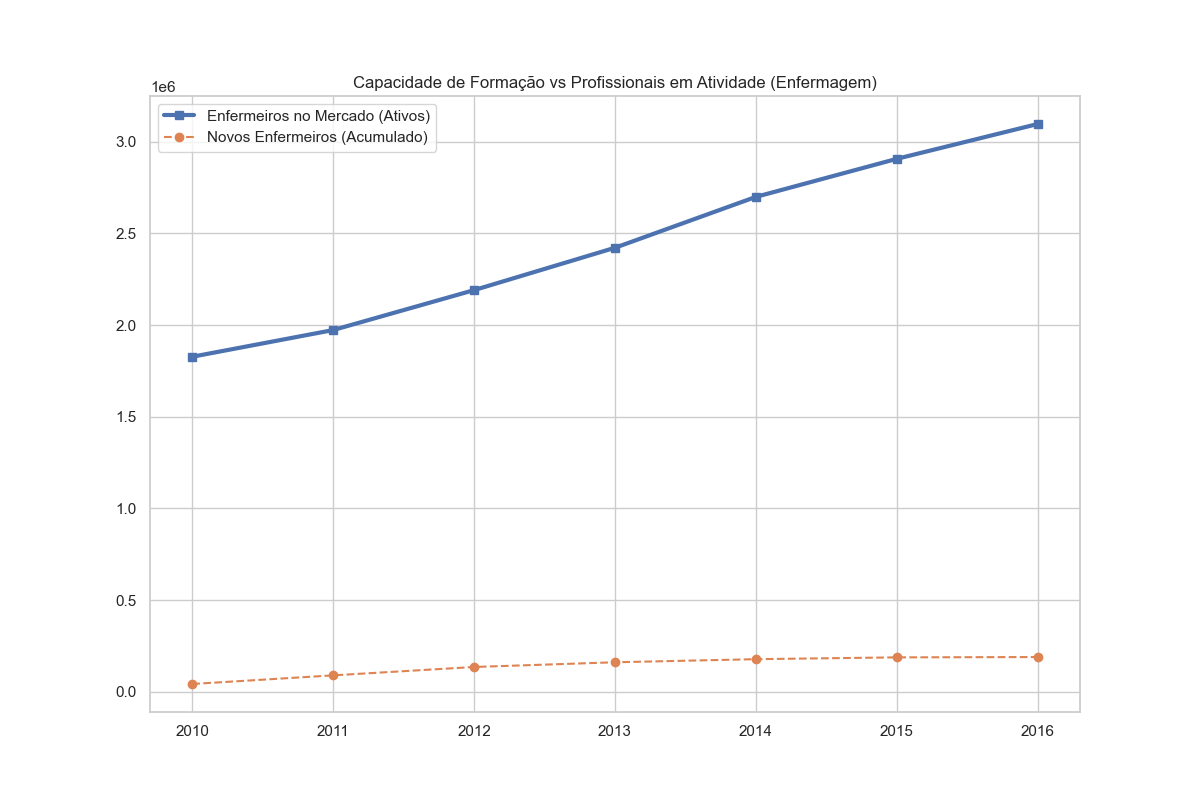
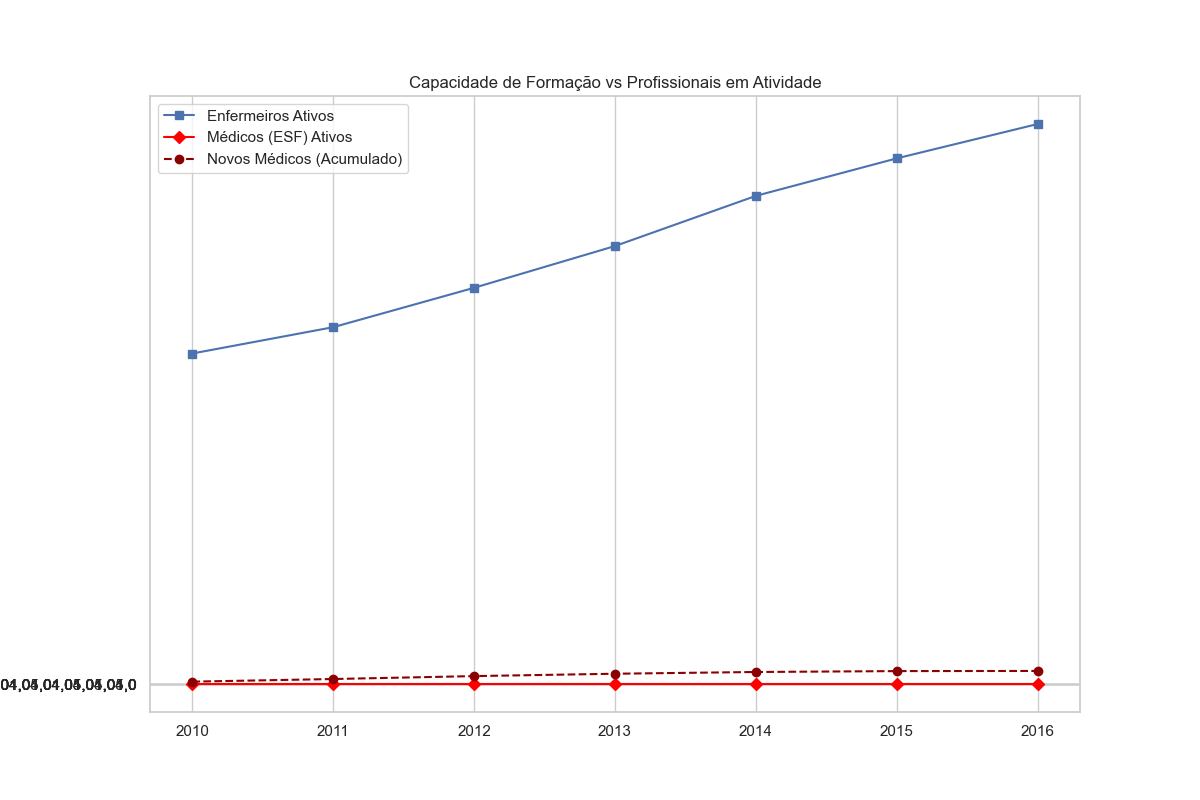
feat: inclusão de médicos (ESF) na análise e correção de cache das imagens web

diff --git a/web/client/src/pages/Home.tsx b/web/client/src/pages/Home.tsx
@@ -15,10 +15,10 @@ import { TabGeografico } from "@/components/dashboard/TabGeografico";
 import { TabMercado } from "@/components/dashboard/TabMercado";
 
 const STATIC_TABS = [
-  { value: "basica", label: "Básica", imgs: ["01_profissionais_por_regiao.png", "02_evolucao_temporal.png", "03_top_ufs.png", "04_distribuicao_boxplot.png"] },
-  { value: "distrib", label: "Distribuição", imgs: ["05_histogramas_distribuicao.png", "06_boxplots_outliers.png"] },
-  { value: "correl", label: "Correlação", imgs: ["07_matriz_correlacao.png", "08_scatter_plots_bivariado.png"] },
-  { value: "regional", label: "Regional", imgs: ["09_violinplot_por_regiao.png"] },
+  { value: "basica", label: "Básica", imgs: ["01_profissionais_por_regiao_v2.png", "02_evolucao_temporal_v2.png", "03_top_ufs_v2.png", "04_distribuicao_boxplot_v2.png"] },
+  { value: "distribuicao", label: "Distribuição", imgs: ["05_histogramas_distribuicao_v2.png", "06_boxplots_outliers_v2.png"] },
+  { value: "correlacao", label: "Correlação", imgs: ["07_matriz_correlacao_v2.png", "08_scatter_plots_bivariado_v2.png"] },
+  { value: "regional", label: "Regional", imgs: ["09_violinplot_por_regiao_v2.png", "10_evolucao_temporal_detalhada_v2.png"] },
 ];
 
 export default function Home() {

diff --git a/analise/scripts/analise_integrada_simapes.py b/analise/scripts/analise_integrada_simapes.py
@@ -12,9 +12,19 @@ plt.rcParams['font.size'] = 12
 # Diretórios
 DADOS_DIR = 'analise/dados'
 RELATORIOS_DIR = 'analise/relatorios'
+WEB_PUBLIC_DIR = 'web/client/public'
 
-if not os.path.exists(RELATORIOS_DIR):
-    os.makedirs(RELATORIOS_DIR)
+for d in [RELATORIOS_DIR, WEB_PUBLIC_DIR]:
+    if not os.path.exists(d):
+        os.makedirs(d)
+
+def save_plot(filename, dpi=150):
+    # Adicionando sufixo para evitar cache do navegador
+    base, ext = os.path.splitext(filename)
+    filename_v = f"{base}_v2{ext}"
+    plt.savefig(f'{RELATORIOS_DIR}/{filename_v}', dpi=dpi)
+    plt.savefig(f'{WEB_PUBLIC_DIR}/{filename_v}', dpi=dpi)
+    print(f"[OK] Gráfico salvo: {filename_v}")
 
 def carregar_dados():
     print("Carregando bases de dados...")
@@ -23,7 +33,7 @@ def carregar_dados():
     geo = pd.read_csv(f'{DADOS_DIR}/panorama_geo.csv', sep=';', encoding='utf-8')
     
     # Otimização: Carregar apenas colunas necessárias de Saude e filtrar anos
-    cols_saude = ['ano_competencia', 'CODUFMUN', 'n_enfermeiros', 'n_odontologistas', 'n_fisioterapeutas']
+    cols_saude = ['ano_competencia', 'CODUFMUN', 'n_enfermeiros', 'n_odontologistas', 'n_fisioterapeutas', 'quantidade_esf']
     saude = pd.read_csv(f'{DADOS_DIR}/panorama_saude.csv', sep=';', usecols=cols_saude)
     saude = saude[saude['ano_competencia'].between(2010, 2016)]
     
@@ -35,7 +45,7 @@ def processar_integracao(aluno, curso, geo, saude):
     # Conversão Numérica
     for df in [aluno, curso, saude]:
         for col in df.columns:
-            if 'qt_' in col or 'n_' in col or 'vaga' in col or 'inscrito' in col:
+            if 'qt_' in col or 'n_' in col or 'vaga' in col or 'inscrito' in col or 'quantidade_' in col:
                 df[col] = pd.to_numeric(df[col].astype(str).str.replace(',', '.'), errors='coerce').fillna(0)
     
     # 1. Integração Geográfica
@@ -60,7 +70,8 @@ def processar_integracao(aluno, curso, geo, saude):
     saude_agrupada = saude.groupby(['ano_competencia', 'CODUFMUN']).agg({
         'n_enfermeiros': 'sum',
         'n_odontologistas': 'sum',
-        'n_fisioterapeutas': 'sum'
+        'n_fisioterapeutas': 'sum',
+        'quantidade_esf': 'sum'
     }).reset_index()
     
     # Adicionando Região à base Saúde
@@ -77,14 +88,14 @@ def gerar_graficos(aluno, curso, saude):
                 x='tp_ocde', y='qt_matricula_total', palette='viridis')
     plt.title('Total de Matrículas por Curso (2010-2016)')
     plt.ylabel('Nº de Matrículas')
-    plt.savefig(f'{RELATORIOS_DIR}/01_matriculas_por_curso.png')
+    save_plot('01_matriculas_por_curso.png')
     plt.close()
 
     # 02. Distribuição por Sexo e Curso (Foco em Medicina)
     plt.figure()
     sns.barplot(data=aluno, x='tp_ocde', y='qt_matricula_total', hue='sexo', estimator=sum, errorbar=None)
     plt.title('Distribuição de Matrículas por Sexo e Curso')
-    plt.savefig(f'{RELATORIOS_DIR}/02_sexo_por_curso.png')
+    save_plot('02_sexo_por_curso.png')
     plt.close()
 
     # 03. Diversidade Racial
@@ -92,7 +103,7 @@ def gerar_graficos(aluno, curso, saude):
     raca_data = aluno[~aluno['raca'].isin(['Sem Resposta', 'Aluno não quis declarar cor/raça'])]
     sns.countplot(data=raca_data, y='raca', order=raca_data['raca'].value_counts().index, palette='magma')
     plt.title('Distribuição Racial dos Alunos de Saúde')
-    plt.savefig(f'{RELATORIOS_DIR}/03_distribuicao_racial.png')
+    save_plot('03_distribuicao_racial.png')
     plt.close()
 
     # 04. Pública vs Privada: Eficiência de Formação
@@ -104,7 +115,7 @@ def gerar_graficos(aluno, curso, saude):
     eficiencia['taxa_conclusao'] = (eficiencia['qt_concluinte_total'] / eficiencia['qt_matricula_total']) * 100
     sns.barplot(data=eficiencia, x='tp_ocde', y='taxa_conclusao', hue='tipo_instituicao')
     plt.title('Taxa de Conclusão (%) por Tipo de Instituição')
-    plt.savefig(f'{RELATORIOS_DIR}/04_eficiencia_institucional.png')
+    save_plot('04_eficiencia_institucional.png')
     plt.close()
 
     # 05. Evolução Temporal da Concorrência (Vagas vs Inscritos)
@@ -112,26 +123,27 @@ def gerar_graficos(aluno, curso, saude):
     curso['concorrencia'] = curso['qt_inscrito_total'] / curso['qt_vaga_total']
     sns.lineplot(data=curso[curso['competencia'] >= 2010], x='competencia', y='concorrencia', hue='tp_ocde', marker='o')
     plt.title('Evolução da Concorrência (Candidato/Vaga)')
-    plt.savefig(f'{RELATORIOS_DIR}/05_evolucao_concorrencia.png')
+    save_plot('05_evolucao_concorrencia.png')
     plt.close()
 
     # 06. Formação vs Mercado (Integração Aluno + Saúde)
     plt.figure()
-    mercado = saude.groupby('ano_competencia')[['n_enfermeiros', 'n_odontologistas', 'n_fisioterapeutas']].sum().reset_index()
+    mercado = saude.groupby('ano_competencia')[['n_enfermeiros', 'n_odontologistas', 'n_fisioterapeutas', 'quantidade_esf']].sum().reset_index()
     formacao = aluno.groupby(['competencia', 'tp_ocde'])['qt_concluinte_total'].sum().unstack().reset_index()
     
-    plt.plot(mercado['ano_competencia'], mercado['n_enfermeiros'], label='Enfermeiros no Mercado (Ativos)', marker='s', linewidth=3)
-    plt.plot(formacao['competencia'], formacao['Enfermagem'].cumsum(), label='Novos Enfermeiros (Acumulado)', linestyle='--', marker='o')
-    plt.title('Capacidade de Formação vs Profissionais em Atividade (Enfermagem)')
+    plt.plot(mercado['ano_competencia'], mercado['n_enfermeiros'], label='Enfermeiros Ativos', marker='s')
+    plt.plot(mercado['ano_competencia'], mercado['quantidade_esf'], label='Médicos (ESF) Ativos', marker='D', color='red')
+    plt.plot(formacao['competencia'], formacao['Medicina'].cumsum(), label='Novos Médicos (Acumulado)', linestyle='--', marker='o', color='darkred')
+    plt.title('Capacidade de Formação vs Profissionais em Atividade')
     plt.legend()
-    plt.savefig(f'{RELATORIOS_DIR}/06_formacao_vs_mercado.png')
+    save_plot('06_formacao_vs_mercado.png')
     plt.close()
 
     # 07. Senioridade das Instituições
     plt.figure()
     sns.boxplot(data=aluno, x='tp_ocde', y='idade_ies', palette='Set3')
     plt.title('Distribuição da "Idade" dos Cursos (Tempo de Funcionamento)')
-    plt.savefig(f'{RELATORIOS_DIR}/07_senioridade_cursos.png')
+    save_plot('07_senioridade_cursos.png')
     plt.close()
 
     # 08. Distribuição Regional (Geográfico)
@@ -139,7 +151,7 @@ def gerar_graficos(aluno, curso, saude):
     regiao_dist = aluno.groupby('regiao_pad')['qt_matricula_total'].sum().sort_values(ascending=False)
     plt.pie(regiao_dist, labels=regiao_dist.index, autopct='%1.1f%%', colors=sns.color_palette('pastel'))
     plt.title('Distribuição Regional das Matrículas')
-    plt.savefig(f'{RELATORIOS_DIR}/08_distribuicao_regional.png')
+    save_plot('08_distribuicao_regional.png')
     plt.close()
 
 def gerar_relatorio(aluno, curso, saude):
@@ -166,6 +178,7 @@ def gerar_relatorio(aluno, curso, saude):
         
         f.write("5. INSIGHTS DE MERCADO (BASE SAÚDE)\n")
         f.write(f"Total de Enfermeiros Ativos (2016): {saude[saude['ano_competencia']==2016]['n_enfermeiros'].sum():,.0f}\n")
+        f.write(f"Total de Médicos ESF Ativos (2016): {saude[saude['ano_competencia']==2016]['quantidade_esf'].sum():,.0f}\n")
         f.write(f"Total de Odontologistas Ativos (2016): {saude[saude['ano_competencia']==2016]['n_odontologistas'].sum():,.0f}\n")
         f.write(f"Total de Fisioterapeutas Ativos (2016): {saude[saude['ano_competencia']==2016]['n_fisioterapeutas'].sum():,.0f}\n\n")
         

diff --git a/analise/scripts/aed_completa.py b/analise/scripts/aed_completa.py
@@ -21,9 +21,12 @@ plt.rcParams['figure.figsize'] = [14, 8]
 plt.rcParams['font.size'] = 10
 
 def save_plot(filename, dpi=150):
-    plt.savefig(f'{RELATORIOS_DIR}/{filename}', dpi=dpi)
-    plt.savefig(f'{WEB_PUBLIC_DIR}/{filename}', dpi=dpi)
-    print(f"[OK] Gráfico salvo: {filename}")
+    # Adicionando sufixo para evitar cache do navegador
+    base, ext = os.path.splitext(filename)
+    filename_v = f"{base}_v2{ext}"
+    plt.savefig(f'{RELATORIOS_DIR}/{filename_v}', dpi=dpi)
+    plt.savefig(f'{WEB_PUBLIC_DIR}/{filename_v}', dpi=dpi)
+    print(f"[OK] Gráfico salvo: {filename_v}")
 
 def perform_comprehensive_aed():
     print("Iniciando Análise Exploratória de Dados...")
@@ -45,7 +48,9 @@ def perform_comprehensive_aed():
     print(f"Base consolidada: {df.shape}")
     
     # 3. Análise Descritiva Detalhada
-    profissionais = ['n_enfermeiros', 'n_odontologistas', 'n_fisioterapeutas']
+    profissionais = ['n_enfermeiros', 'n_odontologistas', 'n_fisioterapeutas', 'quantidade_esf']
+    prof_labels = {'n_enfermeiros': 'Enfermeiros', 'n_odontologistas': 'Odontologistas', 
+                   'n_fisioterapeutas': 'Fisioterapeutas', 'quantidade_esf': 'Médicos (ESF)'}
     
     # Estatísticas gerais
     stats = {}
@@ -75,9 +80,10 @@ def perform_comprehensive_aed():
     fig, ax = plt.subplots(figsize=(12, 6))
     x = np.arange(len(agg_regiao))
     width = 0.25
-    ax.bar(x - width, agg_regiao[('n_enfermeiros', 'mean')], width, label='Enfermeiros', color='#2E86AB')
-    ax.bar(x, agg_regiao[('n_odontologistas', 'mean')], width, label='Odontologistas', color='#A23B72')
-    ax.bar(x + width, agg_regiao[('n_fisioterapeutas', 'mean')], width, label='Fisioterapeutas', color='#F18F01')
+    ax.bar(x - width*1.5, agg_regiao[('n_enfermeiros', 'mean')], width, label='Enfermeiros', color='#2E86AB')
+    ax.bar(x - width/2, agg_regiao[('n_odontologistas', 'mean')], width, label='Odontologistas', color='#A23B72')
+    ax.bar(x + width/2, agg_regiao[('n_fisioterapeutas', 'mean')], width, label='Fisioterapeutas', color='#F18F01')
+    ax.bar(x + width*1.5, agg_regiao[('quantidade_esf', 'mean')], width, label='Médicos (ESF)', color='#C73E1D')
     ax.set_xlabel('Região')
     ax.set_ylabel('Média de Profissionais por Município')
     ax.set_title('Distribuição Média de Profissionais de Saúde por Região')
@@ -93,6 +99,7 @@ def perform_comprehensive_aed():
     ax.plot(agg_ano['ano_competencia'], agg_ano['n_enfermeiros'], marker='o', label='Enfermeiros', linewidth=2, color='#2E86AB')
     ax.plot(agg_ano['ano_competencia'], agg_ano['n_odontologistas'], marker='s', label='Odontologistas', linewidth=2, color='#A23B72')
     ax.plot(agg_ano['ano_competencia'], agg_ano['n_fisioterapeutas'], marker='^', label='Fisioterapeutas', linewidth=2, color='#F18F01')
+    ax.plot(agg_ano['ano_competencia'], agg_ano['quantidade_esf'], marker='D', label='Médicos (ESF)', linewidth=2, color='#C73E1D')
     ax.set_xlabel('Ano')
     ax.set_ylabel('Total de Profissionais')
     ax.set_title('Evolução Temporal do Número Total de Profissionais (2005-2025)')
@@ -107,9 +114,10 @@ def perform_comprehensive_aed():
     fig, ax = plt.subplots(figsize=(12, 6))
     x = np.arange(len(top_ufs))
     width = 0.25
-    ax.bar(x - width, top_ufs['n_enfermeiros'], width, label='Enfermeiros', color='#2E86AB')
-    ax.bar(x, top_ufs['n_odontologistas'], width, label='Odontologistas', color='#A23B72')
-    ax.bar(x + width, top_ufs['n_fisioterapeutas'], width, label='Fisioterapeutas', color='#F18F01')
+    ax.bar(x - width*1.5, top_ufs['n_enfermeiros'], width, label='Enfermeiros', color='#2E86AB')
+    ax.bar(x - width/2, top_ufs['n_odontologistas'], width, label='Odontologistas', color='#A23B72')
+    ax.bar(x + width/2, top_ufs['n_fisioterapeutas'], width, label='Fisioterapeutas', color='#F18F01')
+    ax.bar(x + width*1.5, top_ufs['quantidade_esf'], width, label='Médicos (ESF)', color='#C73E1D')
     ax.set_xlabel('Unidade Federativa')
     ax.set_ylabel('Média de Profissionais por Município')
     ax.set_title('Top 10 Estados com Maior Média de Profissionais de Saúde')
@@ -122,9 +130,10 @@ def perform_comprehensive_aed():
     
     # Gráfico 4: Distribuição (Boxplot)
     fig, ax = plt.subplots(figsize=(12, 6))
-    data_to_plot = [df['n_enfermeiros'].dropna(), df['n_odontologistas'].dropna(), df['n_fisioterapeutas'].dropna()]
-    bp = ax.boxplot(data_to_plot, labels=['Enfermeiros', 'Odontologistas', 'Fisioterapeutas'], patch_artist=True)
-    for patch, color in zip(bp['boxes'], ['#2E86AB', '#A23B72', '#F18F01']):
+    data_to_plot = [df['n_enfermeiros'].dropna(), df['n_odontologistas'].dropna(), 
+                    df['n_fisioterapeutas'].dropna(), df['quantidade_esf'].dropna()]
+    bp = ax.boxplot(data_to_plot, labels=['Enfermeiros', 'Odontologistas', 'Fisioterapeutas', 'Médicos (ESF)'], patch_artist=True)
+    for patch, color in zip(bp['boxes'], ['#2E86AB', '#A23B72', '#F18F01', '#C73E1D']):
         patch.set_facecolor(color)
     ax.set_ylabel('Número de Profissionais')
     ax.set_title('Distribuição do Número de Profissionais por Categoria')

diff --git a/analise/scripts/aed_nivel_intermediario.py b/analise/scripts/aed_nivel_intermediario.py
@@ -33,9 +33,12 @@ for d in [RELATORIOS_DIR, WEB_PUBLIC_DIR]:
         os.makedirs(d)
 
 def save_plot(filename, dpi=150):
-    plt.savefig(f'{RELATORIOS_DIR}/{filename}', dpi=dpi)
-    plt.savefig(f'{WEB_PUBLIC_DIR}/{filename}', dpi=dpi)
-    print(f"[OK] Gráfico salvo: {filename}")
+    # Adicionando sufixo para evitar cache do navegador
+    base, ext = os.path.splitext(filename)
+    filename_v = f"{base}_v2{ext}"
+    plt.savefig(f'{RELATORIOS_DIR}/{filename_v}', dpi=dpi)
+    plt.savefig(f'{WEB_PUBLIC_DIR}/{filename_v}', dpi=dpi)
+    print(f"[OK] Gráfico salvo: {filename_v}")
 
 sns.set_theme(style="whitegrid")
 plt.rcParams['figure.figsize'] = [14, 8]
@@ -110,7 +113,7 @@ print(f"Regiões únicas: {df['regiao'].nunique()}")
 
 # Verificar inconsistências
 print("\n--- Verificação de Inconsistências ---")
-profissionais = ['n_enfermeiros', 'n_odontologistas', 'n_fisioterapeutas']
+profissionais = ['n_enfermeiros', 'n_odontologistas', 'n_fisioterapeutas', 'quantidade_esf']
 for prof in profissionais:
     df[prof] = pd.to_numeric(df[prof], errors='coerce')
     negatives = (df[prof] < 0).sum()
@@ -150,7 +153,7 @@ print("PASSO 4: ANÁLISE DE DISTRIBUIÇÃO (UNIVARIADA)")
 print("=" * 80)
 
 # Histogramas com KDE
-fig, axes = plt.subplots(1, 3, figsize=(15, 5))
+fig, axes = plt.subplots(1, 4, figsize=(20, 5))
 for idx, prof in enumerate(profissionais):
     sns.histplot(df[prof].dropna(), kde=True, bins=50, ax=axes[idx], color='steelblue')
     axes[idx].set_title(f'Distribuição: {prof}')
@@ -161,7 +164,7 @@ save_plot('05_histogramas_distribuicao.png')
 plt.close()
 
 # Boxplots para identificar outliers
-fig, axes = plt.subplots(1, 3, figsize=(15, 5))
+fig, axes = plt.subplots(1, 4, figsize=(20, 5))
 for idx, prof in enumerate(profissionais):
     sns.boxplot(y=df[prof].dropna(), ax=axes[idx], color='lightcoral')
     axes[idx].set_title(f'Boxplot: {prof}')
@@ -262,7 +265,7 @@ print("=" * 80)
 
 # Análise por Região
 print("\n--- Análise de Variância por Região ---")
-fig, axes = plt.subplots(1, 3, figsize=(15, 5))
+fig, axes = plt.subplots(1, 4, figsize=(20, 5))
 
 for idx, prof in enumerate(profissionais):
     sns.violinplot(data=df, x='regiao', y=prof, ax=axes[idx], palette='Set2')